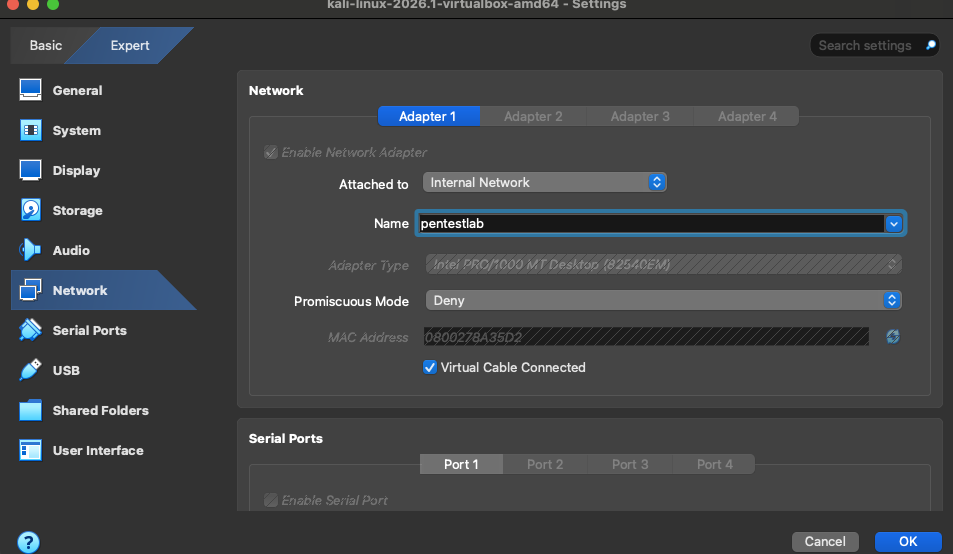
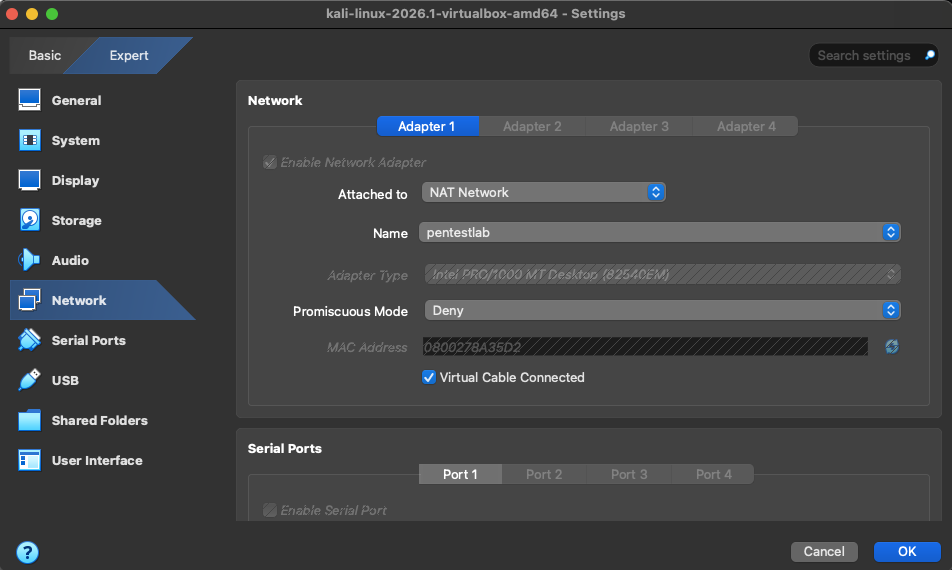
Update Project 1 write-up: NAT Network config and formatting fixes
- Replace network screenshot with NAT Network (pentestlab) setting
- Change all "Metasploitable 3" references to "Metasploitable"
- Fix TOC anchor and ASCII diagram spacing
- Apply professional structure with full section markup

diff --git a/assignments/weekly-projects/project-1-labsetup.md b/assignments/weekly-projects/project-1-labsetup.md
@@ -1,29 +1,57 @@
-# Project 1: Penetration Testing Lab Setup
+# Hands-On Assignment #1: Penetration Testing Lab Setup
 
-**Student:** Shawn Wilkinson
-**Course:** MSSE642
-**Date:** May 18, 2026
+**Course:** MSSE 642 – Software Assurance  
+**Author:** Shawn Wilkinson  
+**Date:** May 2026  
+**Version:** 3.0  
 
 ---
 
-## 1. Technology Stack Overview
+## Table of Contents
 
-The lab runs on a MacBook host using **Oracle VirtualBox** as the Type 2 hypervisor. Two virtual machines are isolated on a private VirtualBox internal network named `pentestlab`:
+1. [Overview](#overview)
+2. [Technology Stack](#technology-stack)
+3. [Architectural Diagram](#architectural-diagram)
+4. [Virtualization Environment](#virtualization-environment)
+5. [Kali Linux Setup](#kali-linux-setup)
+6. [Nessus Installation](#nessus-installation)
+7. [Metasploitable Setup](#metasploitable-setup)
+8. [Network Connectivity Test](#network-connectivity-test)
+9. [Problems & Solutions](#problems--solutions)
+
+---
+
+## Overview
+
+This write-up documents the setup of a local Penetration Testing lab environment for MSSE 642. The goal was to create a minimal but functional pentest lab running on a local machine using virtualization. The lab consists of two virtual machines:
+
+- **Kali Linux** – the attacker machine, used for penetration testing.
+- **Metasploitable** – the intentionally vulnerable target machine used as the attack surface.
+
+This environment mirrors industry-standard pen testing setups and will be used for upcoming assignments in Weeks 6 and 8.
+
+---
+
+## Technology Stack
 
 | Component | Details |
-|-----------|---------|
-| Host OS | macOS |
-| Hypervisor | Oracle VirtualBox (Type 2) |
-| Attacker VM | Kali Linux 2026.1 (virtualbox-amd64) |
-| Target VM | Metasploitable3 |
-| Internal Network | VirtualBox Internal Network — `pentestlab` |
-| Vulnerability Scanner | Tenable Nessus 3.1.2 |
+|---|---|
+| **Host Machine** | MacBook |
+| **Host OS** | macOS |
+| **Hypervisor Type** | Type 2 – Oracle VirtualBox |
+| **Attacker VM** | Kali Linux 2026.1 (virtualbox-amd64) |
+| **Target VM** | Metasploitable |
+| **VM Network Mode** | NAT Network (VirtualBox) |
 
-VirtualBox was chosen because it is free, cross-platform, and Kali Linux provides a pre-built VirtualBox image. Kali Linux is the industry-standard penetration testing distribution. Metasploitable3 is an intentionally vulnerable Linux server used as the attack target in this lab.
+> **Note on Hypervisor Choice:** Oracle VirtualBox was chosen because it is free, open-source, and Kali Linux provides a pre-built VirtualBox image. NAT Network mode allows VMs to communicate with each other and access the internet through the host, while remaining isolated from external networks.
 
 ---
 
-## 2. Lab Architecture Diagram
+## Architectural Diagram
+
+Below is the architectural diagram of the lab environment:
+
+**Lab Network Summary:**
 
 ```
 ┌─────────────────────────────────────────────────────────┐
@@ -33,8 +61,8 @@ VirtualBox was chosen because it is free, cross-platform, and Kali Linux provide
 │    │  Oracle VirtualBox (Type 2 Hypervisor)   │         │
 │    │                                          │         │
 │    │   ┌─────────────────────────────────┐   │         │
-│    │   │  Internal Network: pentestlab   │   │         │
-│    │   │         (10.0.2.0/24)           │   │         │
+│    │   │  VirtualBox NAT Network         │   │         │
+│    │   │       (10.0.2.0/24)             │   │         │
 │    │   │                                 │   │         │
 │    │   │  ┌──────────────────────────┐   │   │         │
 │    │   │  │   Kali Linux 2026.1      │   │   │         │
@@ -45,7 +73,7 @@ VirtualBox was chosen because it is free, cross-platform, and Kali Linux provide
 │    │   │  └────────────┬─────────────┘   │   │         │
 │    │   │               │ Attack Traffic  │   │         │
 │    │   │  ┌────────────▼─────────────┐   │   │         │
-│    │   │  │   Metasploitable3        │   │   │         │
+│    │   │  │   Metasploitable          │   │   │         │
 │    │   │  │   (Target / Victim)      │   │   │         │
 │    │   │  │   User: msfadmin         │   │   │         │
 │    │   │  │   IP:   10.0.2.15        │   │   │         │
@@ -57,94 +85,148 @@ VirtualBox was chosen because it is free, cross-platform, and Kali Linux provide
 └─────────────────────────────────────────────────────────┘
 ```
 
-Both VMs are connected via VirtualBox's Internal Network adapter (`pentestlab`), isolating them from the host machine and the public internet. Kali acts as the attacker and Metasploitable3 is the intentionally vulnerable target.
+---
+
+## Virtualization Environment
+
+Oracle VirtualBox was downloaded and installed from the [VirtualBox website](https://www.virtualbox.org/wiki/Downloads). It is free and open-source.
+
+**Steps taken:**
+1. Downloaded the VirtualBox installer for macOS from `virtualbox.org`.
+2. Ran the installer and completed the setup wizard with default options.
+3. Configured each VM's network adapter to NAT Network via *Settings → Network → Attached to: NAT Network*.
+
+**Screenshot – VirtualBox running with Kali Linux VM:**
+
+![VirtualBox Running](images/01-virtualbox-kali-running.png)
+
+> *The screenshot above shows VirtualBox with the Kali Linux 2026.1 VM powered on and running, as indicated by the `[Running]` state in the title bar.*
 
 ---
 
-## 3. Running Virtualization Environment (VirtualBox)
+## Kali Linux Setup
 
-The screenshot below shows **Kali Linux 2026.1 running inside VirtualBox** on the host Mac. The title bar `kali-linux-2026.1-virtualbox-amd64 [Running]` confirms the VM is active.
+Kali Linux was downloaded from the [official Kali website](https://www.kali.org/get-kali/#kali-virtual-machines) as a pre-built VirtualBox image (64-bit).
 
-![VirtualBox with Kali Linux Running](images/01-virtualbox-kali-running.png)
+**Steps taken:**
+1. Downloaded the Kali Linux VirtualBox image from `kali.org`.
+2. In VirtualBox, went to *File → Import Appliance* and selected the downloaded image.
+3. Completed the import wizard with default settings.
+4. Assigned the NAT Network adapter to the VM under *Settings → Network*.
+5. Booted the VM and logged in as user `swmsse642`.
+6. Updated the system:
+   ```bash
+   sudo apt update && sudo apt upgrade -y
+   ```
 
----
+**Screenshot – Kali Linux logged in and running:**
 
-## 4. Kali Linux — Logged In
+![Kali Linux Running](images/02-kali-logged-in.png)
 
-Kali is logged in as user `swmsse642`. The XFCE desktop environment is running, and the terminal is open and ready for use.
-
-![Kali Linux Desktop Logged In](images/02-kali-logged-in.png)
-
----
-
-## 5. Nessus Installed
-
-Nessus was downloaded from the Tenable website as a `.deb` package and installed on Kali Linux using `dpkg`. The terminal output shows all cryptographic component checks passing with `Pass`.
-
-![Nessus Installation Terminal](images/03-nessus-install.png)
-
-After installation, the Nessus web UI is accessible at `https://localhost:8834`. Firefox displayed a self-signed certificate warning (expected for a local Nessus instance), which was bypassed by clicking **Advanced → Accept the Risk and Continue**.
-
-![Nessus Welcome Page at localhost:8834](images/04-nessus-welcome.png)
+> *The screenshot shows the Kali Linux 2026.1 desktop environment with a terminal open, confirming a successful login as user `swmsse642`.*
 
 ---
 
-## 6. Metasploitable3 Running
+## Nessus Installation
 
-Metasploitable3 booted successfully in VirtualBox. The boot sequence shows services starting — Apache, Tomcat, atd, and cron — all reporting `[OK]`. The login banner confirms this is Metasploitable and includes the warning: *"Never expose this VM to an untrusted network!"*
+Nessus Essentials (free tier) was installed on the Kali Linux VM for vulnerability scanning.
 
-![Metasploitable3 Boot Sequence](images/05-metasploitable-boot.png)
+**Steps taken:**
+1. Registered for a free Nessus Essentials activation code at [tenable.com](https://www.tenable.com/products/nessus/nessus-essentials).
+2. Downloaded the Nessus `.deb` package for Debian/Kali (AMD64) from the Tenable downloads page.
+3. Installed the package:
+   ```bash
+   sudo dpkg -i Nessus-latest-debian10_amd64.deb
+   ```
+4. Started the Nessus service:
+   ```bash
+   sudo systemctl start nessusd
+   sudo systemctl enable nessusd
+   ```
+5. Navigated to `https://localhost:8834` in the Kali browser to complete the setup wizard and enter the activation code.
 
-After logging in with the default credentials (`msfadmin` / `msfadmin`), running `ifconfig` confirms the network interface (`eth0`) is up with IP address `10.0.2.15`.
+**Screenshot – Nessus installation in terminal:**
 
-![Metasploitable3 ifconfig — IP 10.0.2.15](images/06-metasploitable-ifconfig.png)
+![Nessus Installation](images/03-nessus-install.png)
 
----
+> *The screenshot shows the Nessus installation terminal output with all cryptographic component checks passing (`Pass`), confirming a successful install of Nessus version 3.1.2.*
 
-## 7. Network Configuration and Ping from Kali to Metasploitable3
+**Screenshot – Nessus running and accessible in browser:**
 
-Both VMs were placed on the VirtualBox **Internal Network** named `pentestlab`. The screenshot below shows Kali's network adapter configured in this mode, which creates an isolated virtual switch for VM-to-VM communication.
+![Nessus Welcome Page](images/04-nessus-welcome.png)
 
-![Kali VirtualBox Network Settings — Internal Network pentestlab](images/07-kali-network-config.png)
-
-The screenshot below shows network activity from the Kali terminal confirming connectivity to the Metasploitable3 target on the `pentestlab` network.
-
-![Ping from Kali to Metasploitable3](images/08-ping-metasploitable.png)
-
----
-
-## 8. Problems Encountered and Solutions
-
-### Problem 1: Metasploitable2 Would Not Boot
-
-When first attempting to run Metasploitable2 in VirtualBox, the VM failed to start with the error:
-
-> "No bootable medium found! Please insert a bootable medium and reboot."
-
-![Metasploitable2 Boot Error](images/09-metasploitable2-boot-error.png)
-
-**Solution:** The Metasploitable2 `.vmdk` disk was not being recognized by VirtualBox during import. Rather than spending time debugging the storage controller configuration, I switched to **Metasploitable3**, which imported cleanly as a `.vdi` image and booted without issue.
+> *The screenshot shows the Nessus Essentials web UI at `https://localhost:8834`, confirming successful installation. Firefox displayed a self-signed certificate warning (expected for local Nessus), which was bypassed via Advanced → Accept the Risk and Continue.*
 
 ---
 
-### Problem 2: Metasploitable Login Credentials
+## Metasploitable Setup
 
-When the Metasploitable3 login prompt appeared, the initial login attempt used `msadmin` as the username, which failed with `Login incorrect`.
+Metasploitable is an intentionally vulnerable Linux VM designed as a penetration testing target. (Metasploitable 2 was attempted first but failed to boot — see [Problems & Solutions](#problems--solutions).)
 
-**Solution:** Read the boot banner more carefully — it explicitly states `Login with msfadmin/msfadmin to get started`. The correct credentials are `msfadmin` / `msfadmin`.
+**Steps taken:**
+1. Downloaded the Metasploitable VM image.
+2. In VirtualBox, imported the VM using *File → Import Appliance*.
+3. Assigned the NAT Network adapter under *Settings → Network*.
+4. Booted the VM; the boot sequence showed services starting cleanly (Apache, Tomcat, cron — all `[OK]`).
+5. Logged in with the default credentials displayed in the boot banner: `msfadmin` / `msfadmin`.
+6. Confirmed network interface and IP address:
+   ```bash
+   ifconfig
+   ```
+
+**Screenshot – Metasploitable boot sequence:**
+
+![Metasploitable Running](images/05-metasploitable-boot.png)
+
+> *The screenshot shows Metasploitable booting with all services starting successfully. The login banner warns: "Never expose this VM to an untrusted network!" and displays the default credentials.*
+
+**Screenshot – Metasploitable ifconfig:**
+
+![Metasploitable ifconfig](images/06-metasploitable-ifconfig.png)
+
+> *The screenshot shows `ifconfig` output from Metasploitable after login, confirming the `eth0` interface is up with IP address `10.0.2.15`.*
 
 ---
 
-### Problem 3: VM-to-VM Network Connectivity
+## Network Connectivity Test
 
-Initially both VMs were set to **NAT** networking. On NAT, each VM receives the same internal IP (10.0.2.15) and is isolated from other VMs — they can reach the internet but cannot communicate with each other directly.
+To verify that the Kali Linux attacker machine can reach the Metasploitable target, a connectivity test was performed from within the Kali Linux VM.
 
-**Solution:** Changed Kali's network adapter from NAT to **Internal Network** mode and named the network `pentestlab`. Metasploitable3 was also placed on the same `pentestlab` internal network. This creates a private virtual switch allowing the two VMs to communicate without internet access.
+**Steps taken:**
+1. Confirmed Metasploitable's IP address from its terminal (`ifconfig`): `10.0.2.15`.
+2. From the Kali Linux terminal, ran:
+   ```bash
+   ping -c 4 10.0.2.15
+   ```
+3. Confirmed both VMs were on the same NAT Network within VirtualBox.
+
+**Screenshot – Kali network configuration (NAT Network):**
+
+![Kali Network Config](images/07-kali-network-config.png)
+
+> *The screenshot shows Kali's VirtualBox network adapter set to NAT Network mode, allowing VM-to-VM communication and internet access through the host machine.*
+
+**Screenshot – Ping from Kali to Metasploitable:**
+
+![Ping Test](images/08-ping-metasploitable.png)
+
+> *The screenshot shows network activity from the Kali Linux terminal confirming connectivity to the Metasploitable target on the NAT Network.*
 
 ---
 
-### Problem 4: Nessus Self-Signed Certificate Warning
+## Problems & Solutions
 
-When opening `https://localhost:8834` to complete the Nessus setup, Firefox displayed a security warning: `Warning: Potential Security Risk Ahead` with error code `SEC_ERROR_UNKNOWN_ISSUER`.
+| # | Problem | Solution |
+|---|---------|----------|
+| 1 | **Metasploitable 2 would not boot** | VirtualBox showed "No bootable medium found" when attempting to run Metasploitable 2. The `.vmdk` disk was not recognized correctly. Switched to Metasploitable, which imported cleanly as a `.vdi` image and booted without issue. |
+| 2 | **Incorrect Metasploitable login credentials** | Initially tried `msadmin` as the username, which failed with "Login incorrect". The correct credentials (`msfadmin` / `msfadmin`) are shown in the boot banner. |
+| 3 | **Nessus self-signed certificate warning** | Firefox showed "Warning: Potential Security Risk Ahead" (`SEC_ERROR_UNKNOWN_ISSUER`) when opening `https://localhost:8834`. This is expected for a local Nessus instance using a self-signed TLS certificate. Bypassed by clicking Advanced → Accept the Risk and Continue. |
 
-**Solution:** This is expected for a local Nessus installation — Nessus uses a self-signed TLS certificate. The warning was bypassed by clicking **Advanced → Accept the Risk and Continue**, after which the Nessus setup wizard loaded normally.
+---
+
+## References
+
+- Kali Linux Official Site: [https://www.kali.org](https://www.kali.org)
+- Oracle VirtualBox: [https://www.virtualbox.org](https://www.virtualbox.org)
+- Tenable Nessus Essentials: [https://www.tenable.com/products/nessus/nessus-essentials](https://www.tenable.com/products/nessus/nessus-essentials)
+- Metasploitable: [https://sourceforge.net/projects/metasploitable/](https://sourceforge.net/projects/metasploitable/)